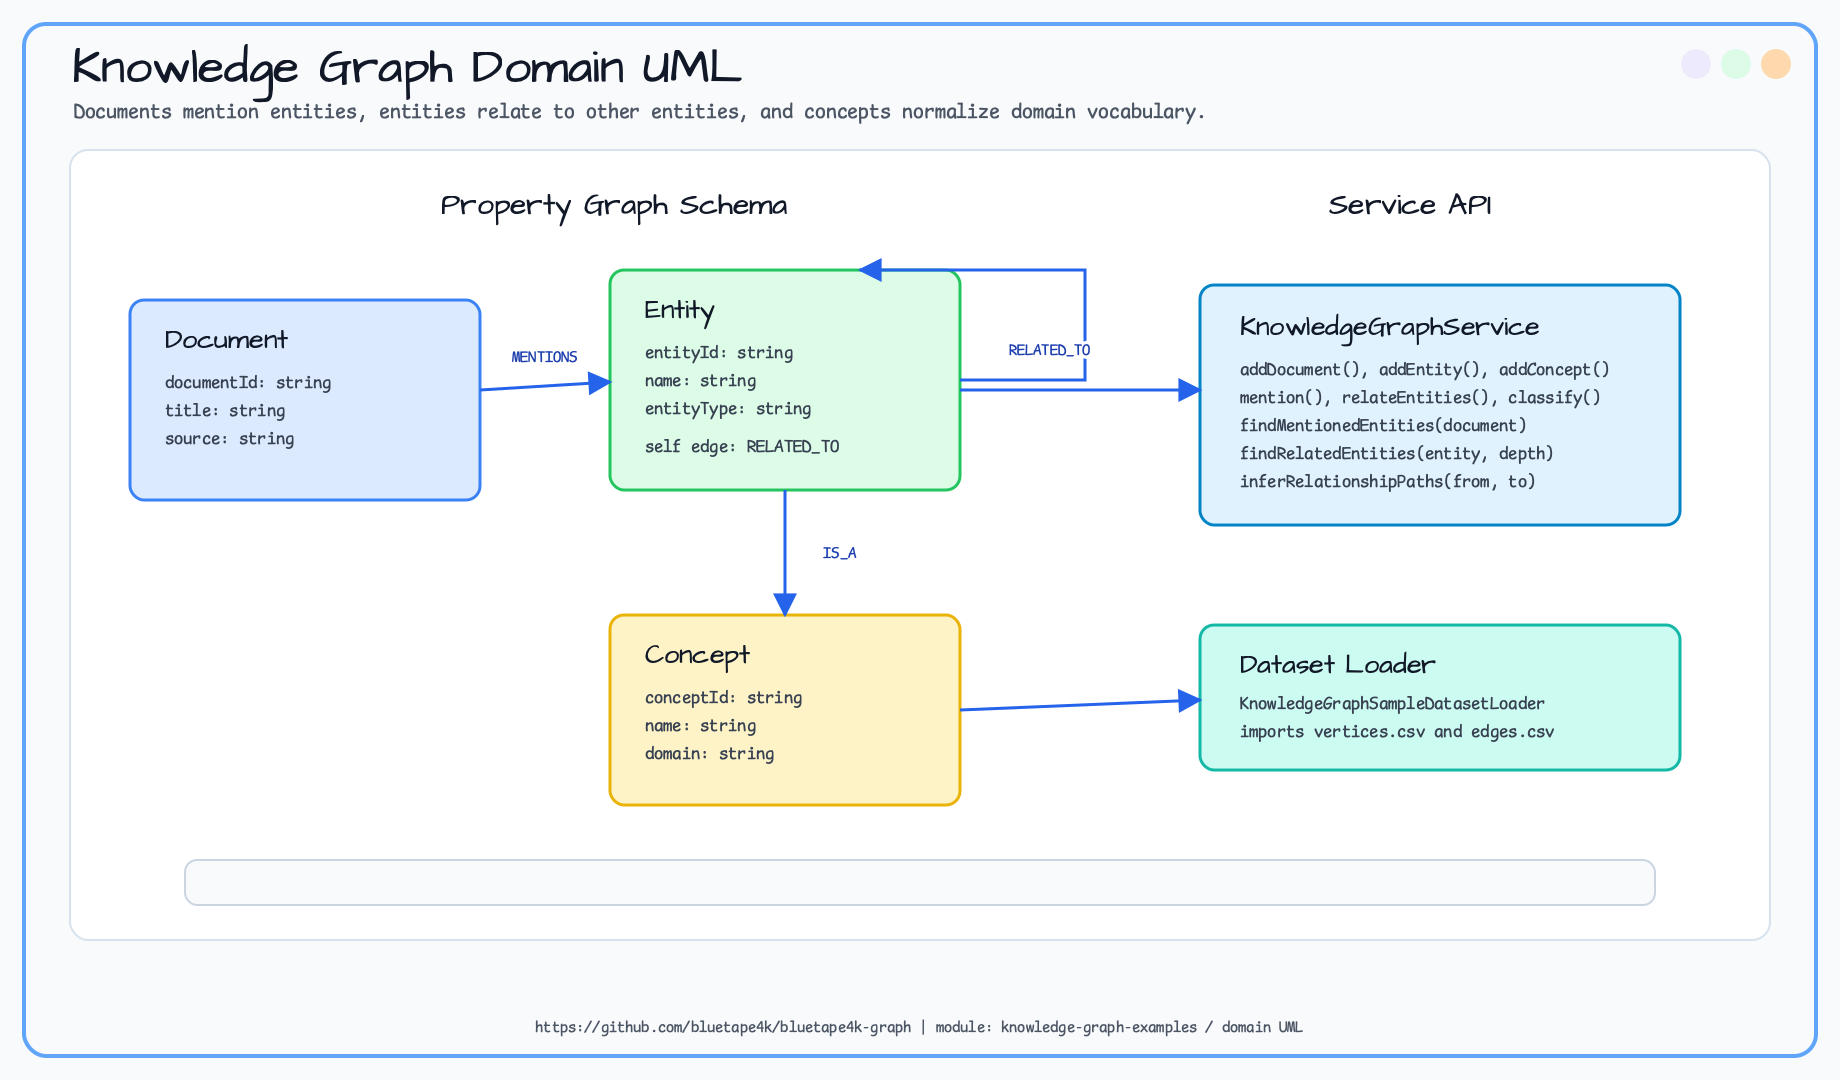
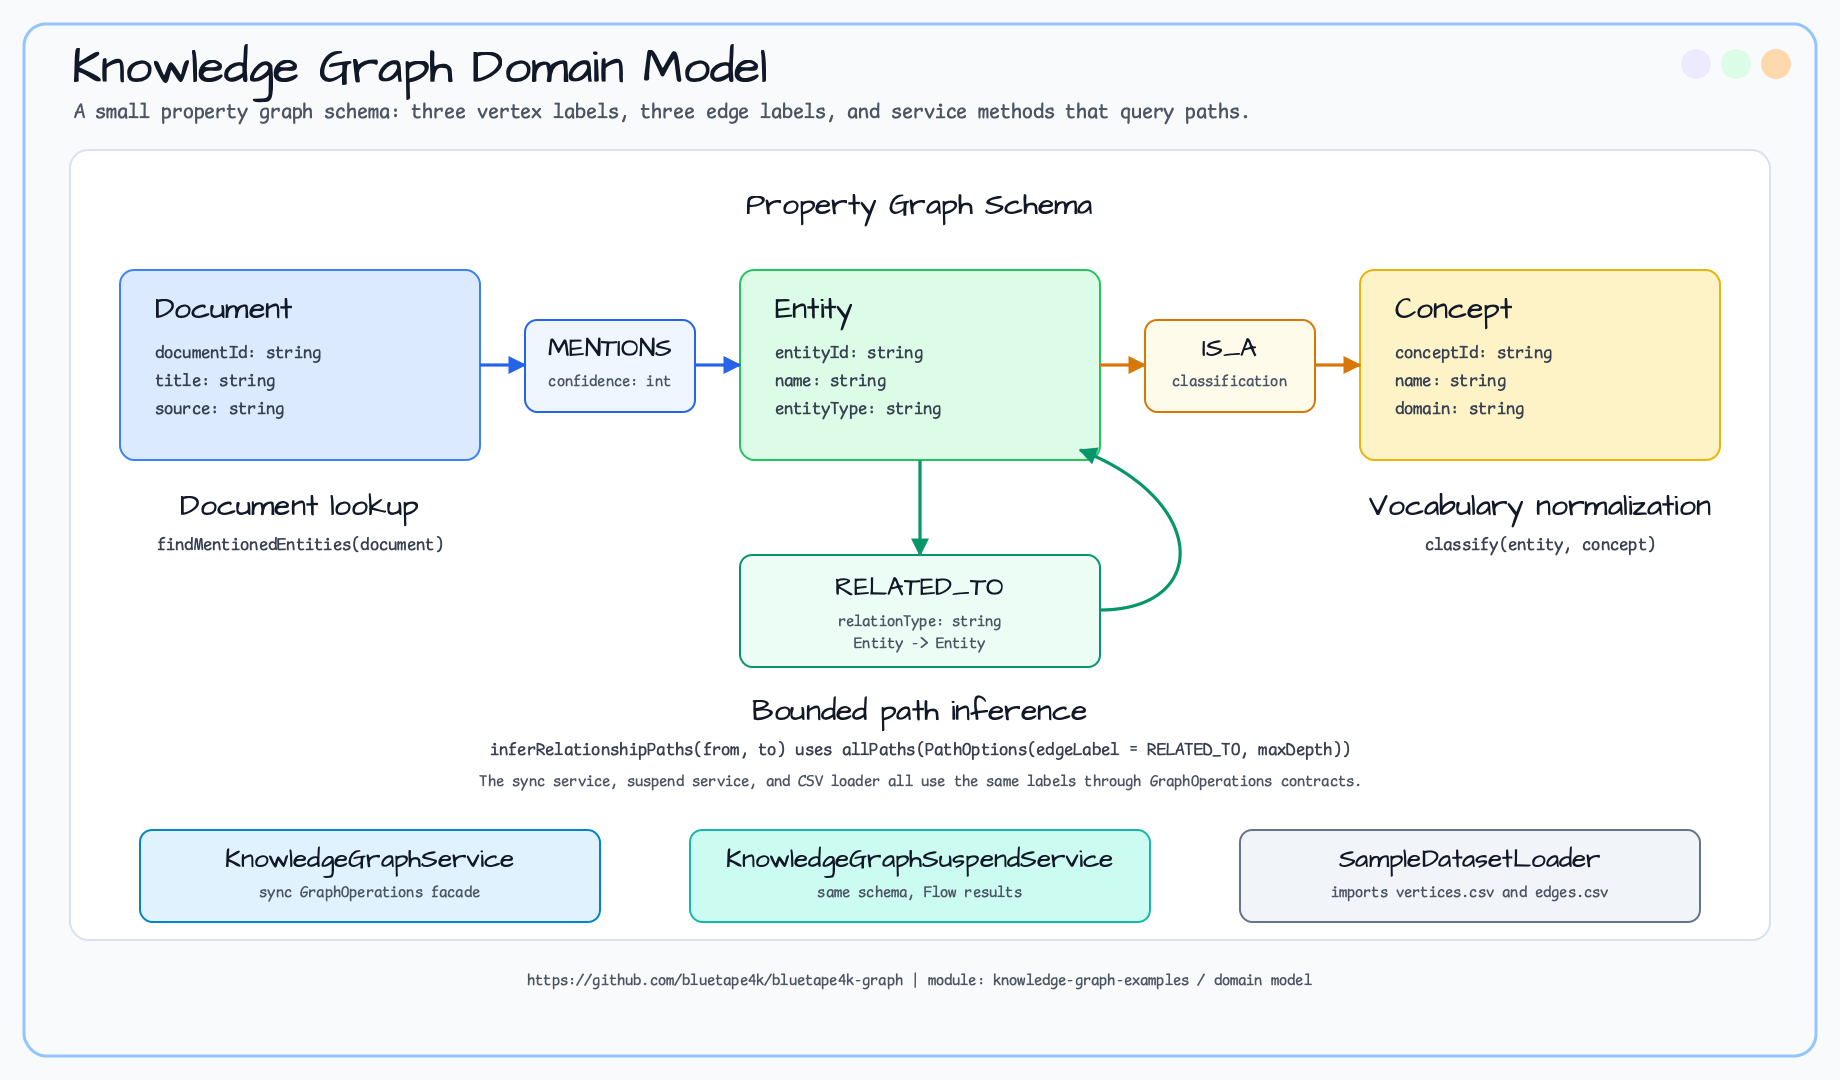
docs: clarify knowledge graph domain model
Constraint: The knowledge-graph example should explain its property graph schema without presenting incidental README metadata as an ERD.

Rejected: Keeping the old ERD/UML heading | the asset is a domain model view of labels, edges, and service entry points.

Confidence: high

Scope-risk: narrow

Directive: Omit ERD framing when the reader needs source-backed graph labels, edge labels, and query responsibilities instead.

Tested: xmllint --noout docs/images/readme-diagrams/examples-knowledge-graph-examples-class-02.svg; CairoSVG render via /Users/debop/.local/bin/cairosvg; work-note text scan; PNG visual inspection; git diff --cached --check.

Not-tested: Example runtime tests were not run because this is documentation-only.

diff --git a/examples/knowledge-graph-examples/README.md b/examples/knowledge-graph-examples/README.md
@@ -39,9 +39,9 @@ This example focuses on small, explainable graphs so learners can see why the pa
 
 ![knowledge graph examples Architecture diagram](../../docs/images/readme-diagrams/examples-knowledge-graph-examples-architecture-01.png)
 
-## ERD / Domain UML
+## Domain Model Diagram
 
-![Domain UML diagram](../../docs/images/readme-diagrams/examples-knowledge-graph-examples-class-02.png)
+![Knowledge graph domain model diagram](../../docs/images/readme-diagrams/examples-knowledge-graph-examples-class-02.png)
 
 ## Data Flow
 

diff --git a/examples/knowledge-graph-examples/README.ko.md b/examples/knowledge-graph-examples/README.ko.md
@@ -37,9 +37,9 @@ Graph DB를 사용하면 다음을 직접 표현할 수 있습니다.
 
 ![knowledge graph examples Architecture diagram](../../docs/images/readme-diagrams/examples-knowledge-graph-examples-architecture-01.png)
 
-## ERD / 도메인 UML
+## 도메인 모델 다이어그램
 
-![UML diagram](../../docs/images/readme-diagrams/examples-knowledge-graph-examples-class-02.png)
+![Knowledge graph domain model diagram](../../docs/images/readme-diagrams/examples-knowledge-graph-examples-class-02.png)
 
 ## Data Flow
 
